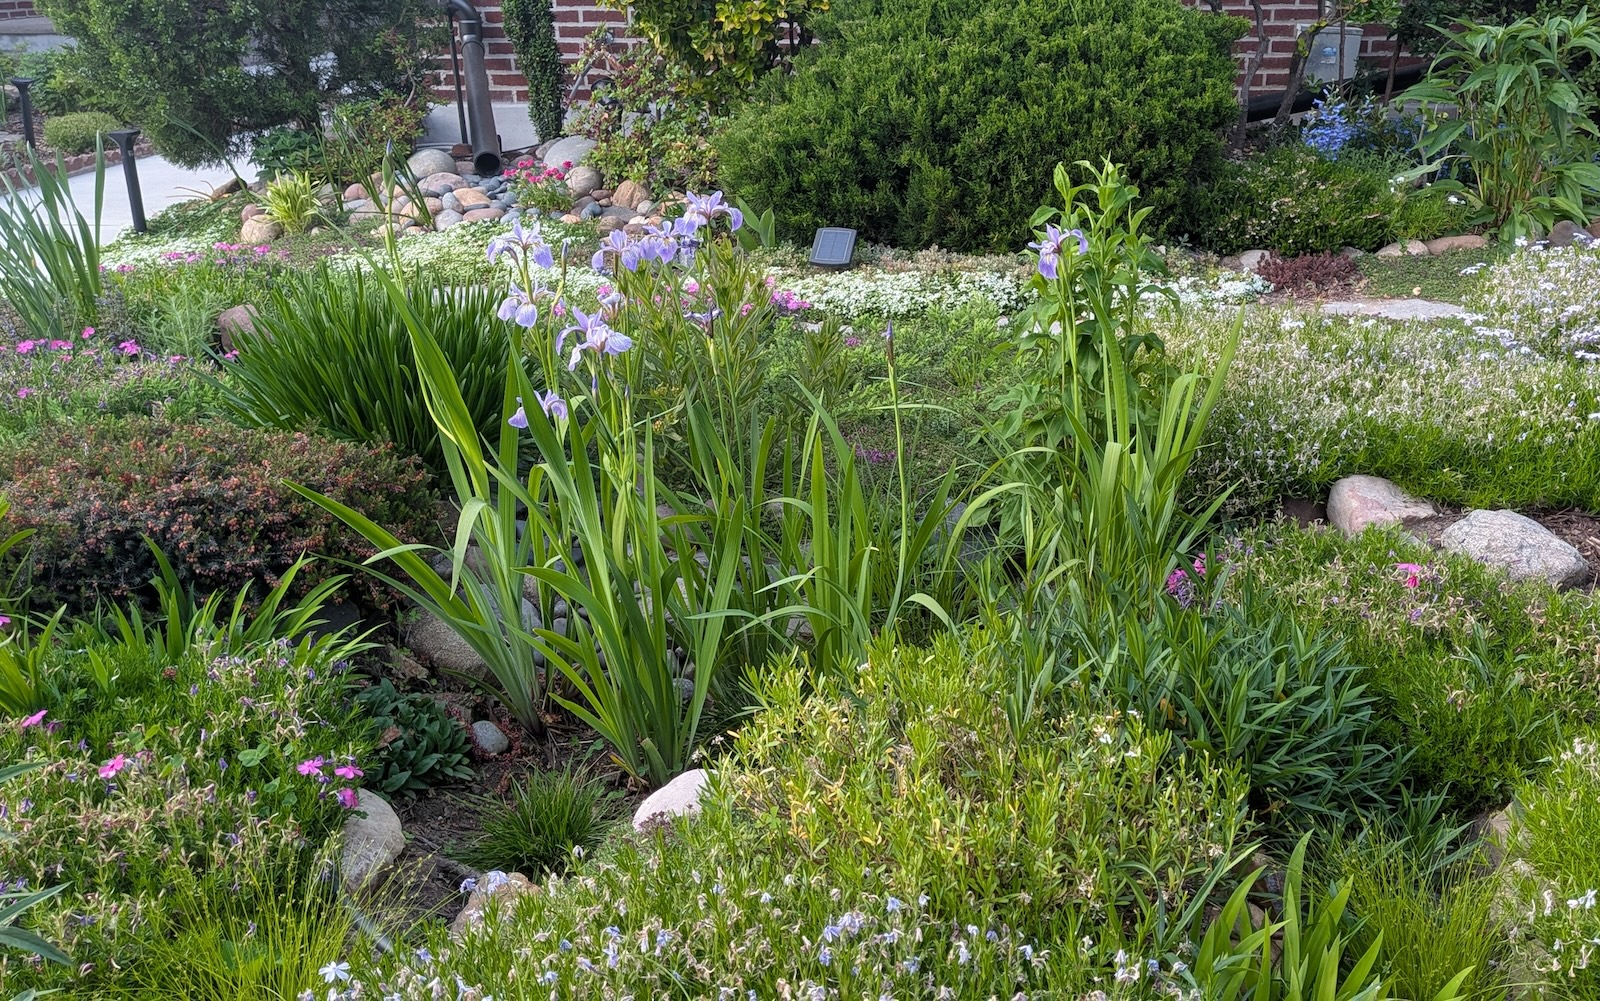
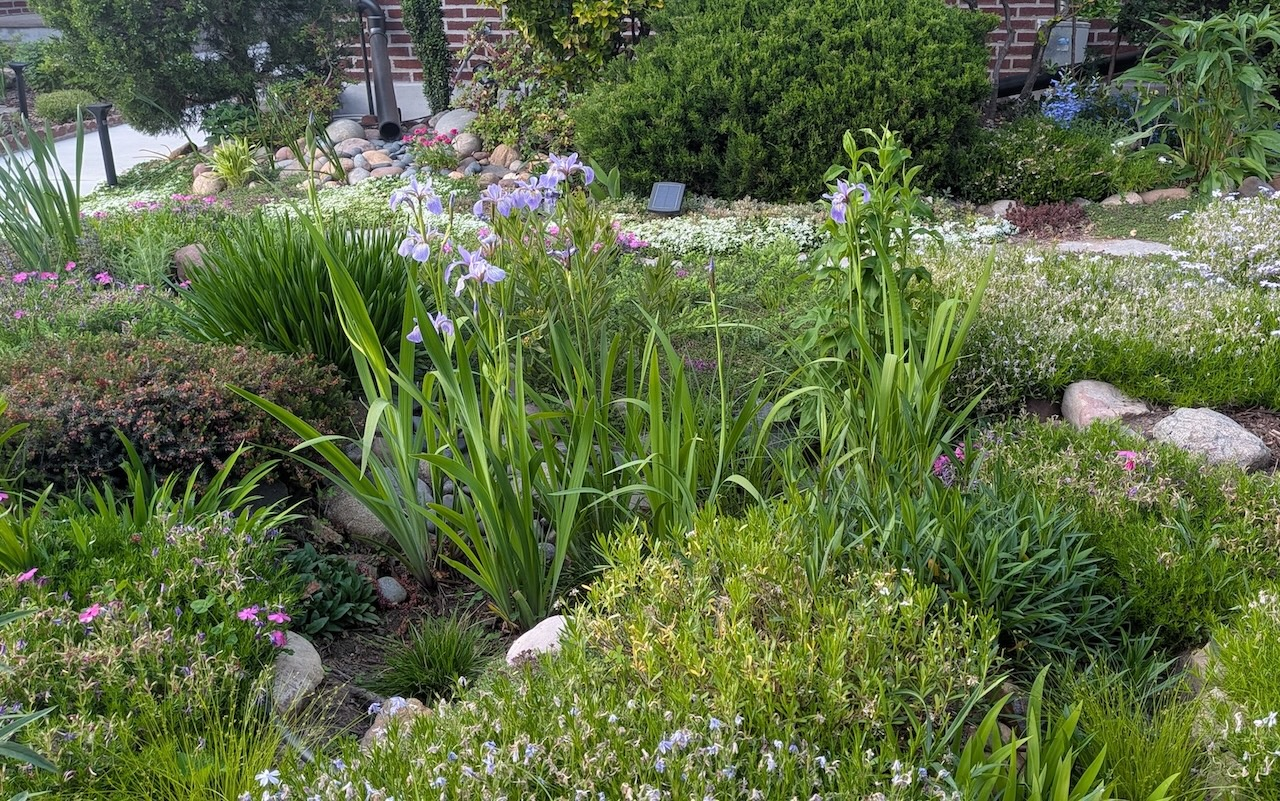
Clean up formatting

Changed region(s): [[0.4375, 0.7491, 0.4688, 0.7803]]

diff --git a/app/globals.scss b/app/globals.scss
@@ -81,7 +81,7 @@ li {
   display: inline-block;
   font-size: 3rem;
   line-height: 5.6rem;
-  font-weight: 800;
+  font-weight: 600;
   color: vars.$color-white;
   vertical-align: bottom;
 
@@ -99,7 +99,7 @@ li {
 .heading-secondary {
   display: inline-block;
   font-size: 2rem;
-  font-weight: 700;
+  font-weight: 500;
   color: vars.$color-white;
   background-color: vars.$color-primary;
   padding: .5rem 1.5rem 1rem 1.5rem;
@@ -110,7 +110,7 @@ li {
   display: inline-block;
   position: relative;
   font-size: vars.$h3-default;
-  font-weight: 800;
+  font-weight: 500;
   color: vars.$color-primary;
   background-color: transparent;
   padding: .5rem 0;
@@ -153,8 +153,17 @@ img {
   }
 }
 
+// Shared text styles
+.obligatory__text-single {
+  color: vars.$color-primary-dark;
+  font-size: vars.$body-default;
+  line-height: normal;
+  word-spacing: .35rem;
+  margin-bottom: 1.4rem;
+}
+
 // Utilities
-.u-margin-bottom-med { margin-bottom: 5rem; }
+.u-margin-bottom-med { margin-bottom: 4rem; }
 
 .u-margin-top-med {
   margin-top: 3rem;

diff --git a/app/page.module.scss b/app/page.module.scss
@@ -9,12 +9,12 @@
   max-height: 80vmin;
   background-color: vars.$color-primary;
   background-image:
-    linear-gradient(
-      to right bottom,
-      rgba(vars.$color-primary, 0.2),
-      rgba(vars.$color-primary-dark, .7)
-    ),
-    url('/img/a_tree_grows_in.jpg');
+    // linear-gradient(
+    //   to right bottom,
+    //   rgba(vars.$color-primary, 0.2),
+    //   rgba(vars.$color-primary-dark, .7)
+    // ),
+    url('/img/rain_garden_front1.jpg');
   background-size: cover;
   background-position: left 90%;
   background-attachment: fixed;

diff --git a/app/page.tsx b/app/page.tsx
@@ -39,7 +39,7 @@ export default function Home() {
           <div className={styles.purpose}>
             <figure className={styles.purposeImage}>
               <Image
-                src="/img/rain_garden_front1.jpg"
+                src="/img/rain_garden_front2.jpg"
                 alt="Alternative ground coverings in my front garden"
                 fill
                 style={{ objectFit: 'cover' }}
@@ -47,7 +47,8 @@ export default function Home() {
             </figure>
             <div className={styles.purposeText}>
               <p>
-                This summer, I designed and built a rain garden and created a{' '}
+                In response to local flash flooding, I designed and built urban residential rain gardens to manage stormwater runoff. 
+                I also created a{' '}
                 <a
                   href="https://app.hex.tech/22816b08-0e6f-4dd8-8bc7-fda1c98d25d4/app/f0ab67e7-2431-42fe-a98c-4805f6071d74/latest"
                   target="_blank"
@@ -55,7 +56,7 @@ export default function Home() {
                 >
                   Rain Garden Calculator in Python
                 </a>
-                {' '}to help others plan a rain garden.
+                {' '}to help others do the same. 
               </p>
               <p>
                 <br />

diff --git a/app/components/Header.module.scss b/app/components/Header.module.scss
@@ -48,7 +48,7 @@
   display: inline-block;
   color: vars.$color-white;
   font-size: 2.2rem;
-  font-weight: 800;
+  // font-weight: 800;
   padding: 0 .5rem;
   width: 100%;
   text-align: center;
@@ -88,7 +88,6 @@
 .navLink {
   line-height: 1;
   font-size: 1.8rem;
-  font-weight: bold;
   margin-right: vars.$left-margin;
   height: 4rem;
   padding-left: .5rem;

diff --git a/app/about/page.module.scss b/app/about/page.module.scss
@@ -238,7 +238,7 @@
 }
 
 .dndDropZoneWrapper {
-  margin-bottom: 3vh;
+  margin-bottom: 7rem;
   margin-top: 0;
   margin-right: 1rem;
   padding-right: 1rem;